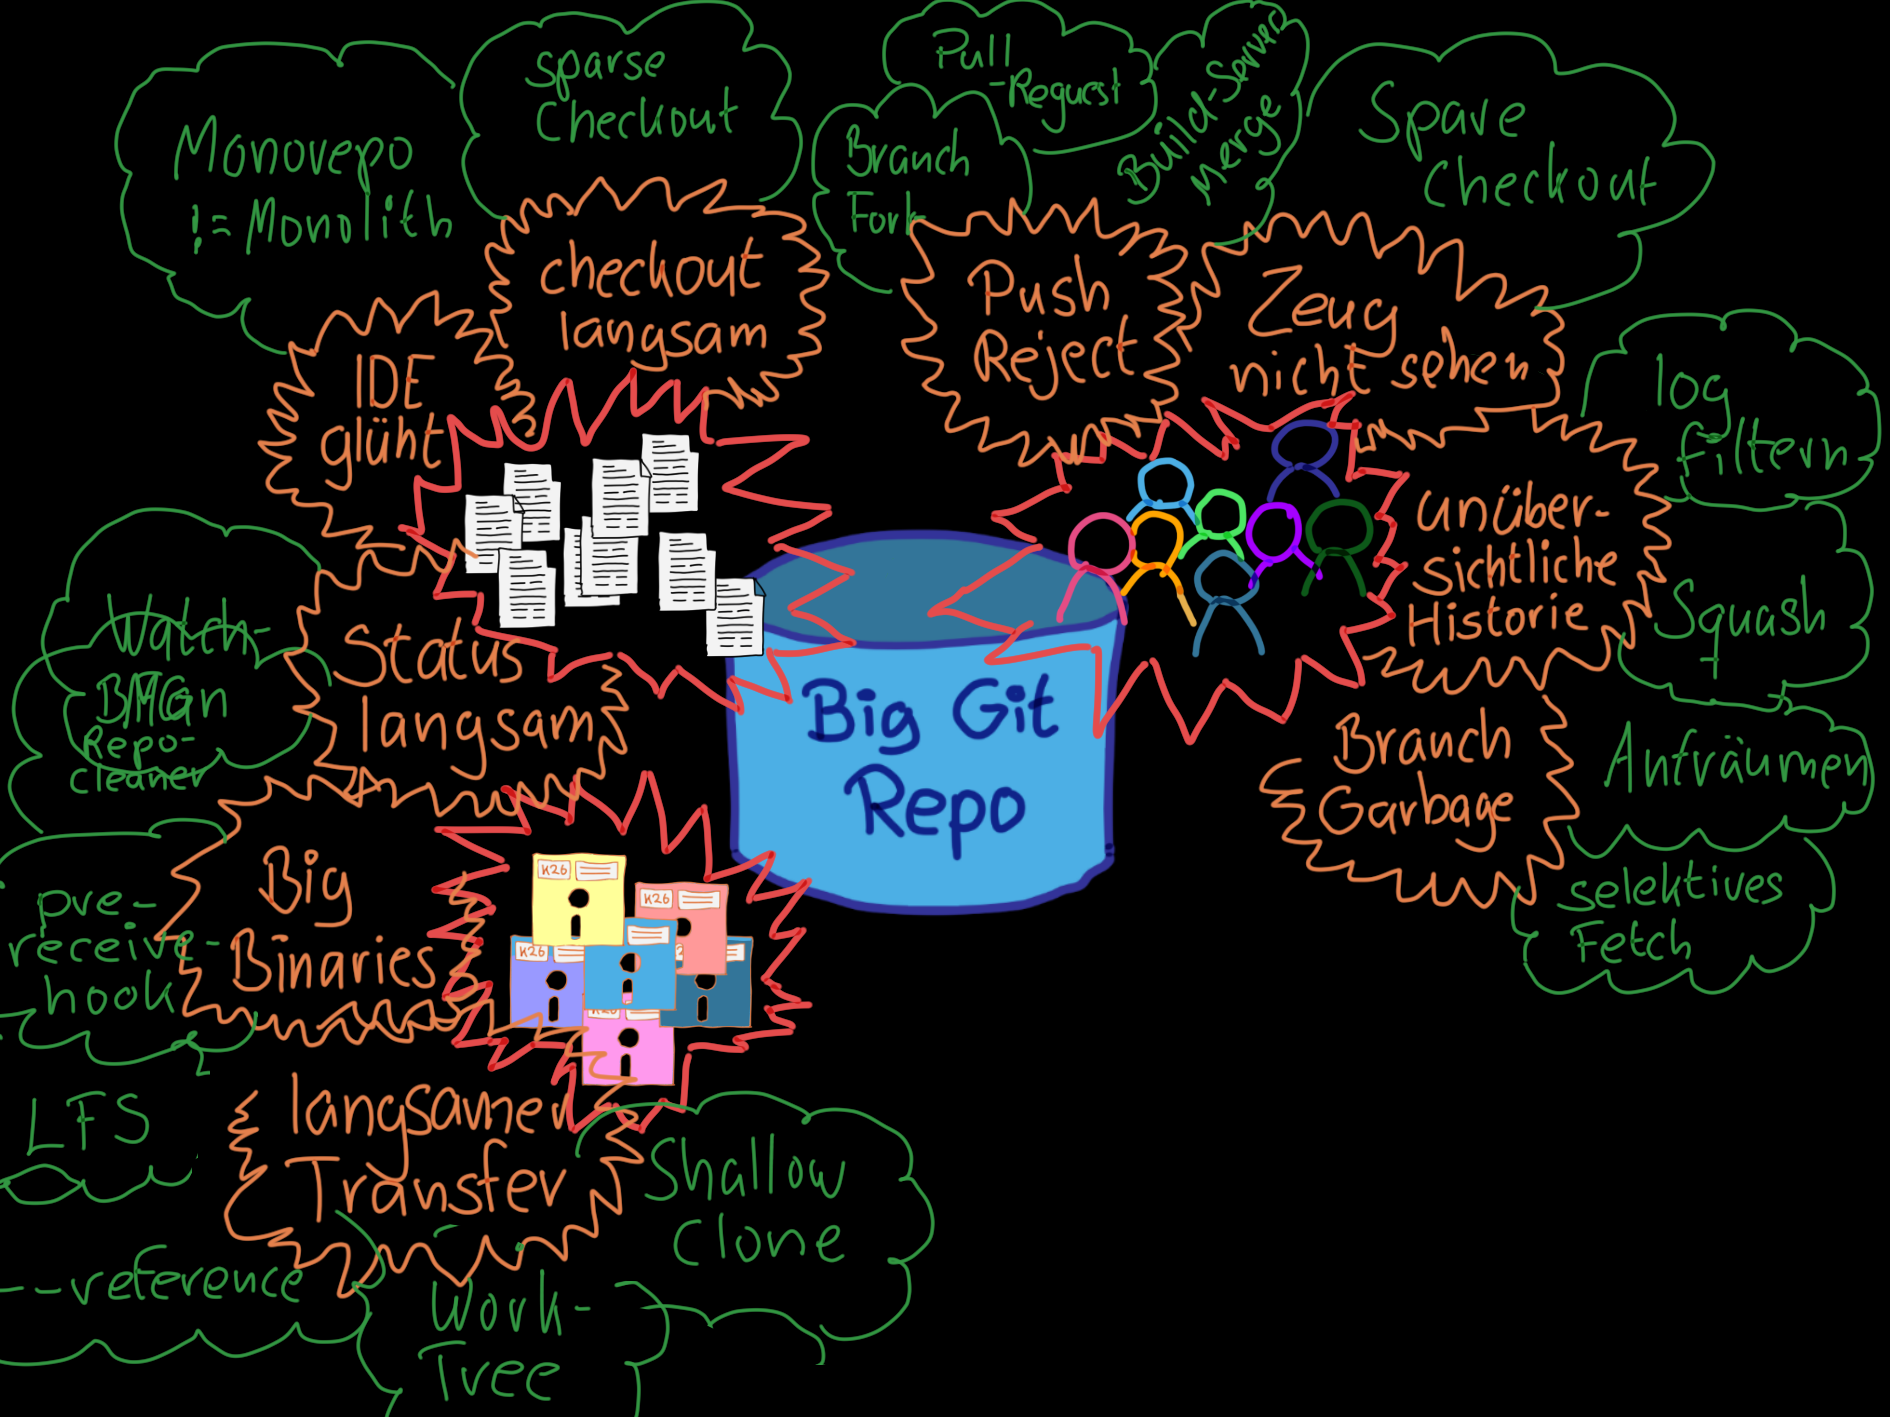
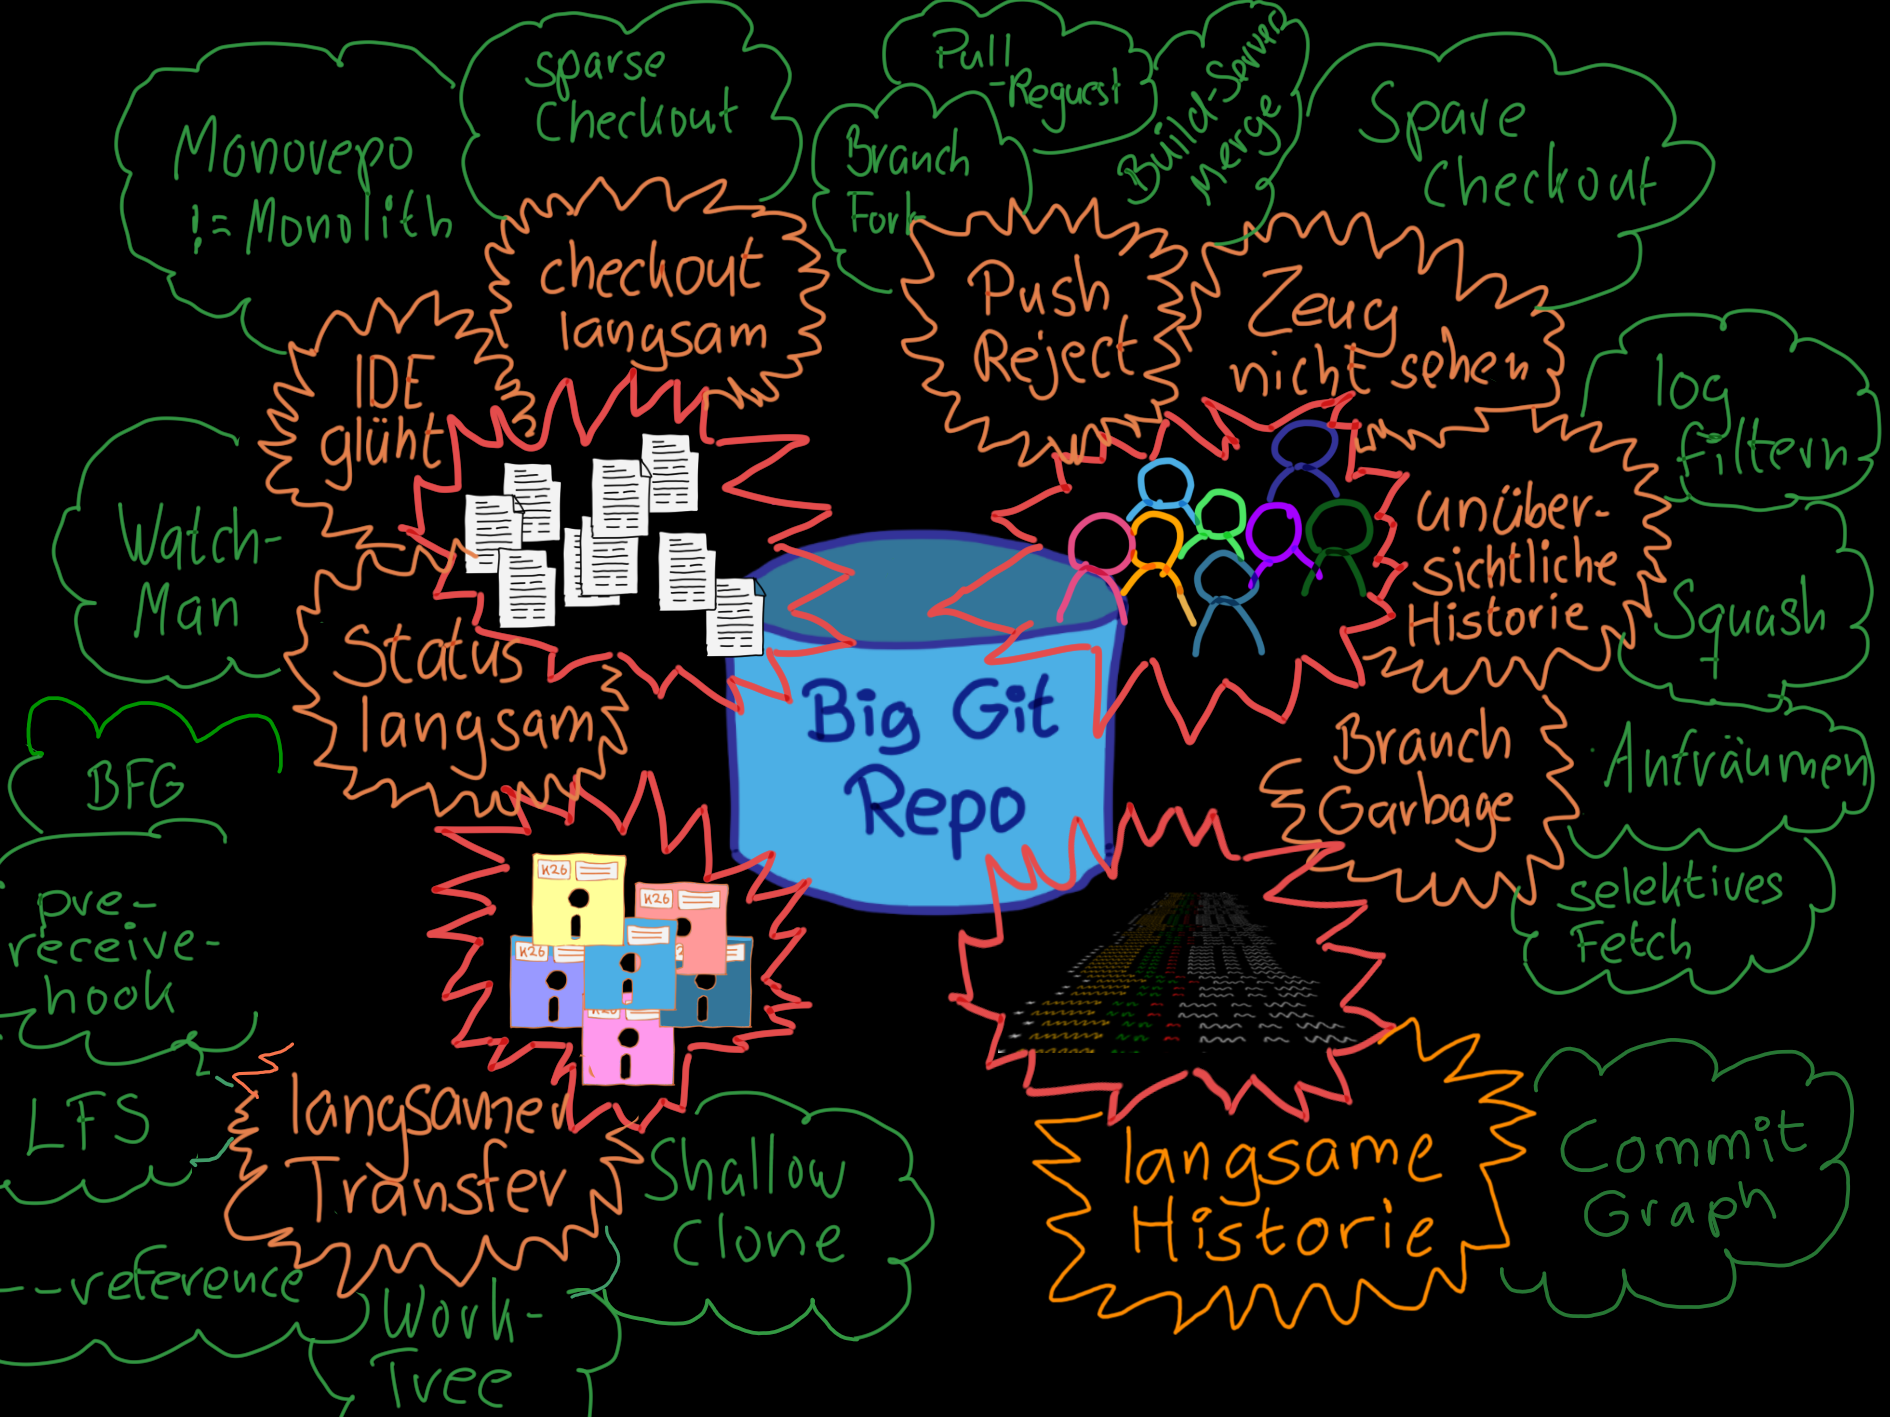
update images

diff --git a/slides/2020-11-04-size-does-matter/06/viele-commits.md b/slides/2020-11-04-size-does-matter/06/viele-commits.md
@@ -84,6 +84,11 @@ time git log --graph --oneline -10
 
 ================================================================
 
+<img src="06/ueberblick-viele-commits.png" width="90%" style="border: 0px; box-shadow: none;">
+
+
+================================================================
+
 ### &#8669; Bjørn
 
 

diff --git a/slides/2020-11-04-size-does-matter/05/anzahl-teams.md b/slides/2020-11-04-size-does-matter/05/anzahl-teams.md
@@ -314,4 +314,5 @@ git log --no-merges -n 1 --format="%ci" <branch>
 
 
 ================================================================
+
 <img src="05/ueberblick-viele-leute.png" width="90%" style="border: 0px; box-shadow: none;">
